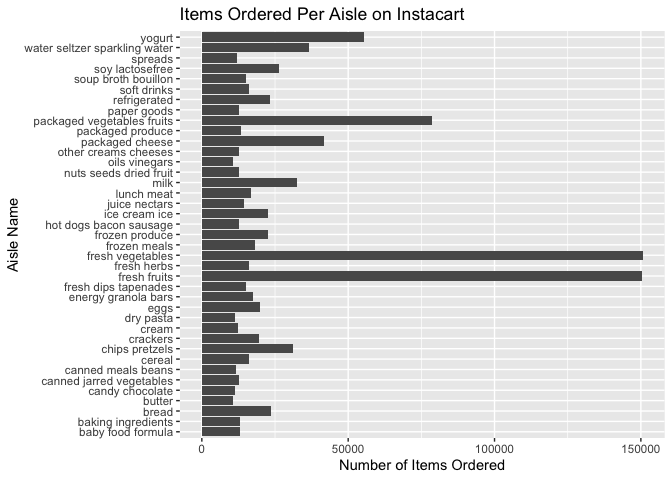
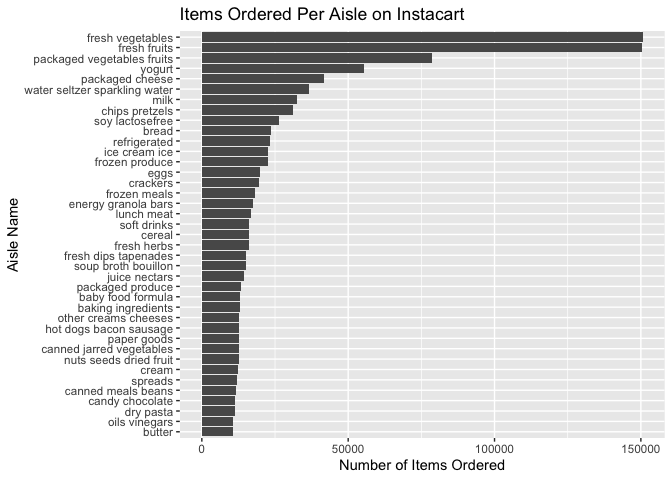
added readme info. polished problem 1 up

Changed region(s): [[0.3438, 0.0625, 0.9688, 0.7812], [0.0312, 0.0625, 0.2812, 0.9062], [0.3438, 0.8438, 0.4062, 0.9062]]

diff --git a/p8105_hw3_lzs2109.md b/p8105_hw3_lzs2109.md
@@ -55,17 +55,22 @@ instacart %>%
 There are 134 different aisles in the dataset, with over 150,000 items
 ordered from both the fresh vegetables and fresh fruits aisles. The next
 most ordered from aisle is the packaged vegetables fruits aisle with
-almost 78,500 items being ordered from it.
+almost 78,500 items being ordered from it. The yogurt aisle is the next
+and 4th most ordered from with over 55,000 items coming from it. The top
+5 most ordered from aisles is rounded out with packaged cheese, at one
+order shy of 41,700 orders.
 
 Now, here’s a plot showing the number of items ordered in each aisle,
-with only aisles with over 10,000 items included.
+with only aisles with over 10,000 items included. We can clearly see the
+top 5 listed above, with water seltzer sparkling water coming in closely
+at 6th, followed by milk at 7th, as in our list above.
 
 ``` r
 instacart %>% 
   group_by(aisle) %>% 
   summarize(n_obs = n()) %>% 
   filter(n_obs > 10000) %>% 
-  ggplot(aes(y = aisle, x = n_obs)) + 
+  ggplot(aes(y = reorder(aisle, n_obs), x = n_obs)) + 
   geom_col() +
   labs(title = "Items Ordered Per Aisle on Instacart", 
        x = "Number of Items Ordered", 
@@ -115,20 +120,22 @@ instacart %>%
   filter(product_name == "Pink Lady Apples" | product_name == "Coffee Ice Cream") %>% 
   group_by(product_name, order_dow) %>% 
   summarize(mean_hour = mean(order_hour_of_day)) %>% 
-  mutate(mean_hour = as.integer(mean_hour)) %>% 
+  mutate(mean_hour = as.integer(mean_hour),
+         days_of_week = c("Sunday", "Monday", "Tuesday", 
+                          "Wednesday", "Thursday", "Friday", "Saturday")) %>% 
+  select(-order_dow) %>% 
   pivot_wider(
-    names_from = order_dow, 
-    names_prefix = "day_",
+    names_from = days_of_week, 
     values_from = mean_hour) %>% 
   knitr::kable()
 ```
 
     ## `summarise()` has grouped output by 'product_name'. You can override using the `.groups` argument.
 
-| product\_name    | day\_0 | day\_1 | day\_2 | day\_3 | day\_4 | day\_5 | day\_6 |
-|:-----------------|-------:|-------:|-------:|-------:|-------:|-------:|-------:|
-| Coffee Ice Cream |     13 |     14 |     15 |     15 |     15 |     12 |     13 |
-| Pink Lady Apples |     13 |     11 |     11 |     14 |     11 |     12 |     11 |
+| product\_name    | Sunday | Monday | Tuesday | Wednesday | Thursday | Friday | Saturday |
+|:-----------------|-------:|-------:|--------:|----------:|---------:|-------:|---------:|
+| Coffee Ice Cream |     13 |     14 |      15 |        15 |       15 |     12 |       13 |
+| Pink Lady Apples |     13 |     11 |      11 |        14 |       11 |     12 |       11 |
 
 ### **Problem 2**
 

diff --git a/README.md b/README.md
@@ -1,1 +1,3 @@
 # p8105_hw3_lzs2109
+
+Homework 3 for P8105 Data Science I, Fall 2021 by Louis Sharp
